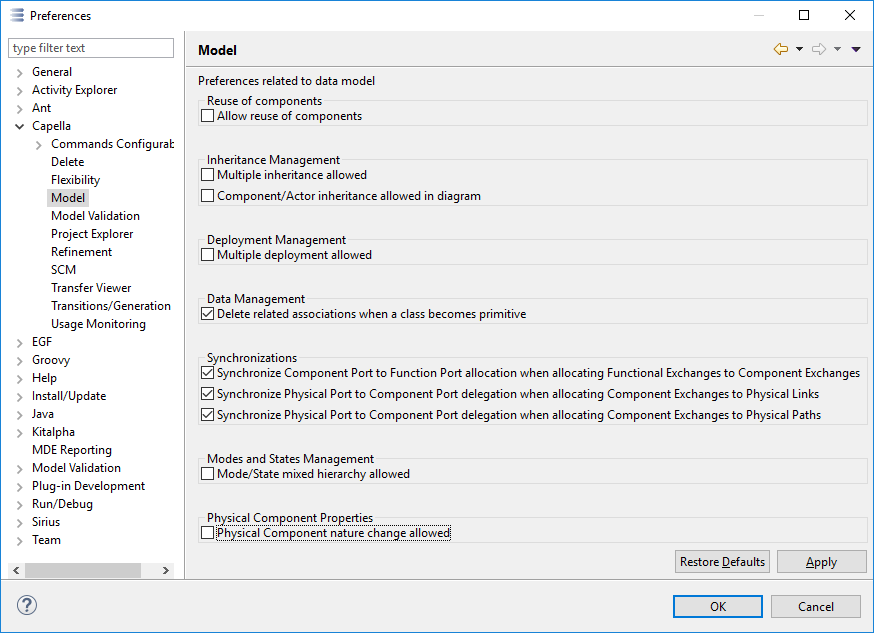
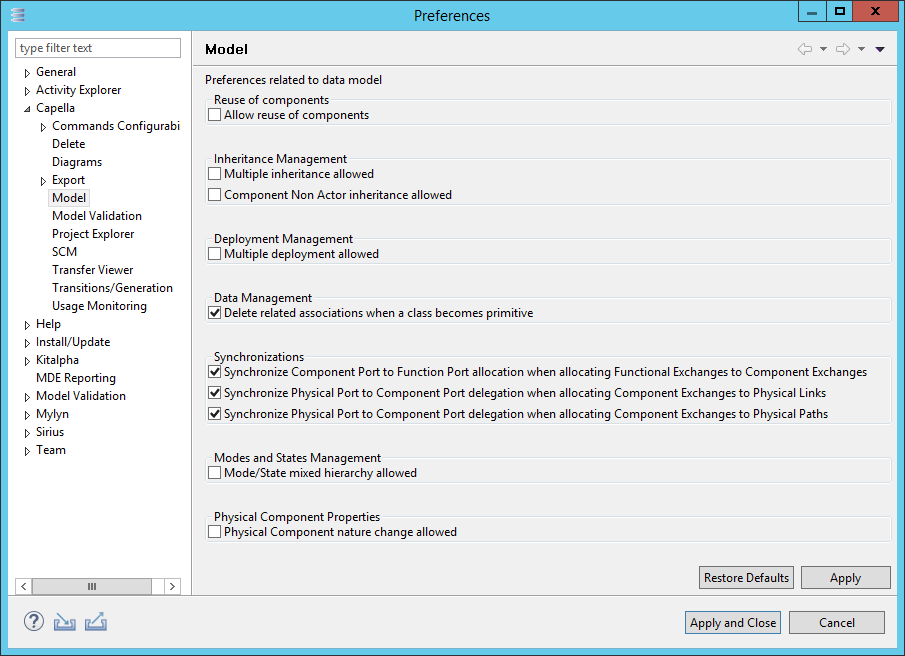
[2598] Update description of Generalization tool which handles both Actors (or components if preference is available) and Capabilities.
+ rework (update help doc)

diff --git a/doc/plugins/org.polarsys.capella.diagrams.doc/html/Diagrams/diagrams.html b/doc/plugins/org.polarsys.capella.diagrams.doc/html/Diagrams/diagrams.html
@@ -236,18 +236,11 @@
 				<td>Creates a new Inclusion relationship between the source and target Capability Realizations. 	</td>
 			</tr>
 			<tr>
-				<td>Capability Generalization 	</td>
+				<td>Generalization 	</td>
 				<td>
 					<img border="0" src="Images/icons/full/obj16/Generalization.gif"/> 
 				</td>
-				<td>Creates a new Generalization relationship between the source and target Capability Realizations. 	</td>
-			</tr>
-			<tr>
-				<td>Actor Generalization 	</td>
-				<td>
-					<img border="0" src="Images/icons/full/obj16/Generalization.gif"/> 
-				</td>
-				<td>Creates a new Generalization relationship between the source and target Actors. 	</td>
+				<td>Creates a new Generalization relationship between the source and target Actors/Components/Capability Realizations. 	</td>
 			</tr>
 			<tr>
 				<td>Capability Realizations 	</td>
@@ -1207,18 +1200,11 @@
 				<td>Create a new Capability Inclusion relationship between the Source and Target Capabilities. 	</td>
 			</tr>
 			<tr>
-				<td>Capability Generalization 	</td>
+				<td>Generalization 	</td>
 				<td>
 					<img border="0" src="Images/icons/full/obj16/Generalization.gif"/> 
 				</td>
-				<td>Create a new Capability Generalization relationship between the Source and Target Super Capabilities. 	</td>
-			</tr>
-			<tr>
-				<td>Actor Generalization 	</td>
-				<td>
-					<img border="0" src="Images/icons/full/obj16/Generalization.gif"/> 
-				</td>
-				<td>Create a new Actor Generalization relationship between the Source and Target Super Actors. 	</td>
+				<td>Create a new Generalization relationship between the Source and Target Super Actors/Capabilities. 	</td>
 			</tr>
 			<tr>
 				<td>Actors 	</td>
@@ -1823,11 +1809,11 @@
 				<td></td>
 			</tr>
 			<tr>
-				<td>Actor Generalization 	</td>
+				<td>Generalization 	</td>
 				<td>
 					<img border="0" src="Images/icons/full/obj16/Generalization.gif"/> 
 				</td>
-				<td></td>
+				<td>Creates a new Generalization relationship between the source and target Actors/Capabilities. 	</td>
 			</tr>
 			<tr>
 				<td>Actors 	</td>
@@ -1943,10 +1929,11 @@
 				<td></td>
 			</tr>
 			<tr>
-				<td>Actor Generalization 	</td>
+				<td>Generalization 	</td>
 				<td>
 					<img border="0" src="Images/icons/full/obj16/Generalization.gif"/> 
 				</td>
+				<td>Creates a new Generalization relationship between the source and target Actors/Capabilities. 	</td>
 			</tr>
 		</table>
 		<h3 id="Sample_13">Sample</h3>
@@ -3180,11 +3167,11 @@
 				<td>Creates a new Involvement relationship between the source Mission / Capability and the target System Actor 	</td>
 			</tr>
 			<tr>
-				<td>Actor Generalization 	</td>
+				<td>Generalization 	</td>
 				<td>
 					<img border="0" src="Images/icons/full/obj16/Generalization.gif"/> 
 				</td>
-				<td>Creates a new Generalization relationship between the source and target System Actors 	</td>
+				<td>Creates a new Generalization relationship between the source and target System Actors/Capabilities 	</td>
 			</tr>
 			<tr>
 				<td>Actors 	</td>
@@ -3271,18 +3258,11 @@
 				<td>Creates a new Inclusion relationship between the source and target Capabilities 	</td>
 			</tr>
 			<tr>
-				<td>Capability Generalization 	</td>
+				<td>Generalization 	</td>
 				<td>
 					<img border="0" src="Images/icons/full/obj16/Generalization.gif"/> 
 				</td>
-				<td>Creates a new Generalization relationship between the source and target Capabilities 	</td>
-			</tr>
-			<tr>
-				<td>Actor Generalization 	</td>
-				<td>
-					<img border="0" src="Images/icons/full/obj16/Generalization.gif"/> 
-				</td>
-				<td>Creates a new Generalization relationship between the source and target System Actors 	</td>
+				<td>Creates a new Generalization relationship between the source and target System Actors/Capabilities 	</td>
 			</tr>
 			<tr>
 				<td>Actors 	</td>

diff --git a/doc/plugins/org.polarsys.capella.preferences.doc/html/06. Preferences/6.2. Model preferences.html b/doc/plugins/org.polarsys.capella.preferences.doc/html/06. Preferences/6.2. Model preferences.html
@@ -95,6 +95,9 @@
 		<p>When &ldquo;
 			<b>Multiple inheritance allowed</b>&rdquo; is activated, a Class can inherit from several other Classes. Otherwise, it can only have one inheritance ancestor.
 		</p>
+			<p>When &ldquo;
+			<b>Component Non Actor inheritance allowed</b>&rdquo; is activated, a Component Non Actor can generalize other Components Non Actor (via Properties View or using Diagram Generalization tools). Otherwise, only Actors are allowed to generalize other Actors.
+		</p>
 		<p>When &ldquo;
 			<b>Multiple deployment allowed</b>&rdquo; is activated, one given Behaviour Physical Component can be deployed on several Node Physical Components.
 		</p>

diff --git a/tests/plugins/org.polarsys.capella.test.diagram.filters.ju/src/org/polarsys/capella/test/diagram/filters/ju/cm/FiltersForCM.java b/tests/plugins/org.polarsys.capella.test.diagram.filters.ju/src/org/polarsys/capella/test/diagram/filters/ju/cm/FiltersForCM.java
@@ -15,7 +15,9 @@ import org.polarsys.capella.test.diagram.filters.ju.DiagramObjectFilterTestCase;
 public abstract class FiltersForCM extends DiagramObjectFilterTestCase {
 
   protected final String CAPABILITY_ID = "b57fd423-0df5-47b2-836d-e3aad4087597";
+  protected final String CAPABILITY_12_ID = "1b2ce76d-e18d-48fa-9c9c-e815e4c75ada";
   protected final String CAPABILITY_EXPLOITATIONS_ID = "eed53d63-d9c1-4703-82f5-a38f0bdb578e";
+  protected final String CAPABILITY_GENERALIZATIONS_ID = "8d2bcfe2-4b9a-45b7-b626-e5238c56c252";
   protected final String ACTOR_3_ID = "7f15675a-dd71-4fca-8cae-aca5b72a7b4c";
   protected final String ACTOR_4_ID = "90596c74-d831-4cd1-a7df-c17101a05f6b";
   protected final String ACTOR_INVOLVEMENTS_ID = "680a9161-20b0-4afb-83aa-78fa28e26d12";

diff --git a/tests/plugins/org.polarsys.capella.test.diagram.filters.ju/src/org/polarsys/capella/test/diagram/filters/ju/cm/HideCapabilityGeneralizationsForCM.java b/tests/plugins/org.polarsys.capella.test.diagram.filters.ju/src/org/polarsys/capella/test/diagram/filters/ju/cm/HideCapabilityGeneralizationsForCM.java
@@ -15,16 +15,16 @@ import java.util.List;
 
 import org.polarsys.capella.core.sirius.analysis.constants.IFilterNameConstants;
 
-public class HideCapabilitiesForCM extends FiltersForCM {
+public class HideCapabilityGeneralizationsForCM extends FiltersForCM {
 
   @Override
   protected String getFilterName() {
-    return IFilterNameConstants.FILTER_CM_HIDE_CAPABILITIES;
+    return IFilterNameConstants.FILTER_CM_HIDE_CAPABILITY_GENERALIZATIONS;
   }
 
   @Override
   protected List<String> getFilteredObjetIDs() {
-    return Arrays.asList(new String[] { CAPABILITY_ID, CAPABILITY_12_ID });
+    return Arrays.asList(new String[] { CAPABILITY_GENERALIZATIONS_ID });
   }
 
 }

diff --git a/core/plugins/org.polarsys.capella.core.sirius.analysis/src/org/polarsys/capella/core/sirius/analysis/constants/IFilterNameConstants.java b/core/plugins/org.polarsys.capella.core.sirius.analysis/src/org/polarsys/capella/core/sirius/analysis/constants/IFilterNameConstants.java
@@ -104,6 +104,7 @@ public interface IFilterNameConstants {
   // CM filters - Contextual Mission
   String FILTER_CM_HIDE_CAPABILITIES = "hide.capabilities.filter";
   String FILTER_CM_HIDE_CAPABILITY_EXPLOITATIONS = "hide.capability.exploitations.filter";
+  String FILTER_CM_HIDE_CAPABILITY_GENERALIZATIONS = "hide.capabilities.generalizations.filter";
   String FILTER_CM_HIDE_ACTORS = "hide.actors.filter";
   String FILTER_CM_HIDE_ACTOR_INVOLVEMENTS = "hide.actor.involvements.filter";
   String FILTER_CM_HIDE_ACTOR_GENERALIZATIONS = "hide.actor.generalizations.filter";

diff --git a/core/plugins/org.polarsys.capella.core.sirius.analysis/src/org/polarsys/capella/core/sirius/analysis/constants/IDNDToolNameConstants.java b/core/plugins/org.polarsys.capella.core.sirius.analysis/src/org/polarsys/capella/core/sirius/analysis/constants/IDNDToolNameConstants.java
@@ -138,7 +138,7 @@ public interface IDNDToolNameConstants {
   String TOOL_CSA_DND_CONSTRAINTS_FROM_EXPLORER = TOOL_DND_CONSTRAINTS_FROM_EXPLORER; // $NON-NLS-1$
 
   // EAB
-  String TOOL_EAB_DND_CONFIGURATIONITEM_FROM_EXPLORER = "D&D CI"; //$NON-NLS-1$
+  String TOOL_EAB_DND_CONFIGURATIONITEM_FROM_EXPLORER = "D&D Components From Project Explorer"; //$NON-NLS-1$
   String TOOL_EAB_DND_PHYSICAL_ARTIFACTS = "DnD AB Physical Artifacts"; //$NON-NLS-1$
   String TOOL_EAB_DND_CONSTRAINTS_FROM_EXPLORER = TOOL_DND_CONSTRAINTS_FROM_EXPLORER; // $NON-NLS-1$
 

diff --git a/tests/plugins/org.polarsys.capella.test.diagram.filters.ju/src/org/polarsys/capella/test/diagram/filters/ju/cm/CMDiagramFiltersTestSuite.java b/tests/plugins/org.polarsys.capella.test.diagram.filters.ju/src/org/polarsys/capella/test/diagram/filters/ju/cm/CMDiagramFiltersTestSuite.java
@@ -27,6 +27,7 @@ public class CMDiagramFiltersTestSuite extends BasicTestSuite {
     tests.add(new HideCapabilitiesForCM());
     tests.add(new HideCapabilityExploitationsForCM());
     tests.add(new HidePropertyValuesForCM());
+    tests.add(new HideCapabilityGeneralizationsForCM());
     return tests;
   }
 
